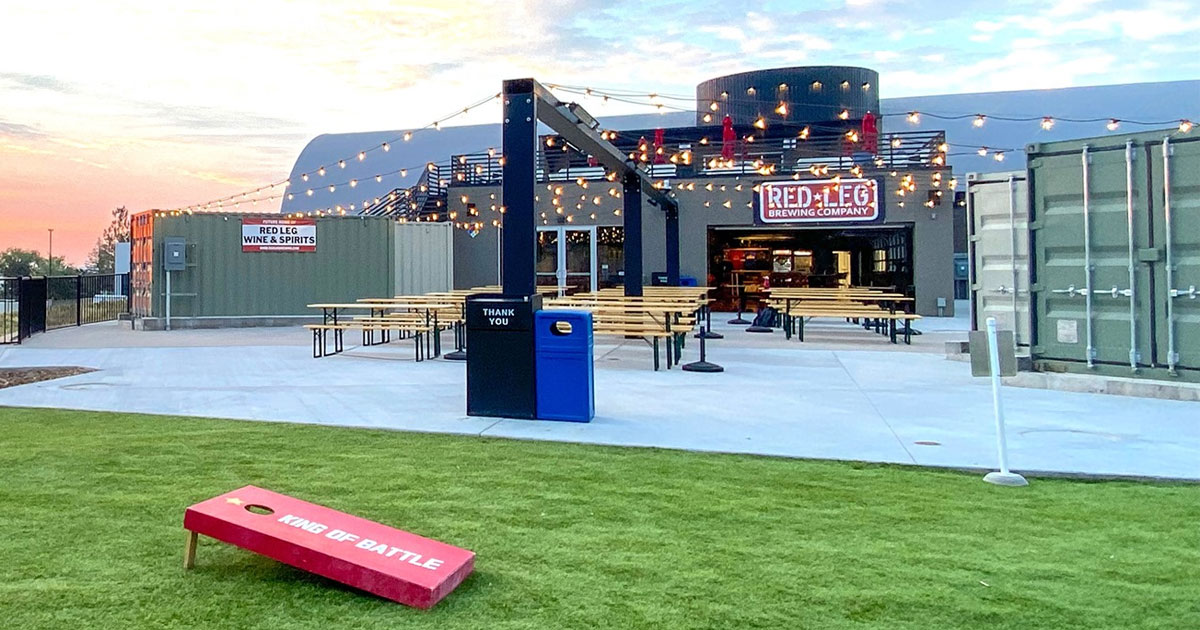
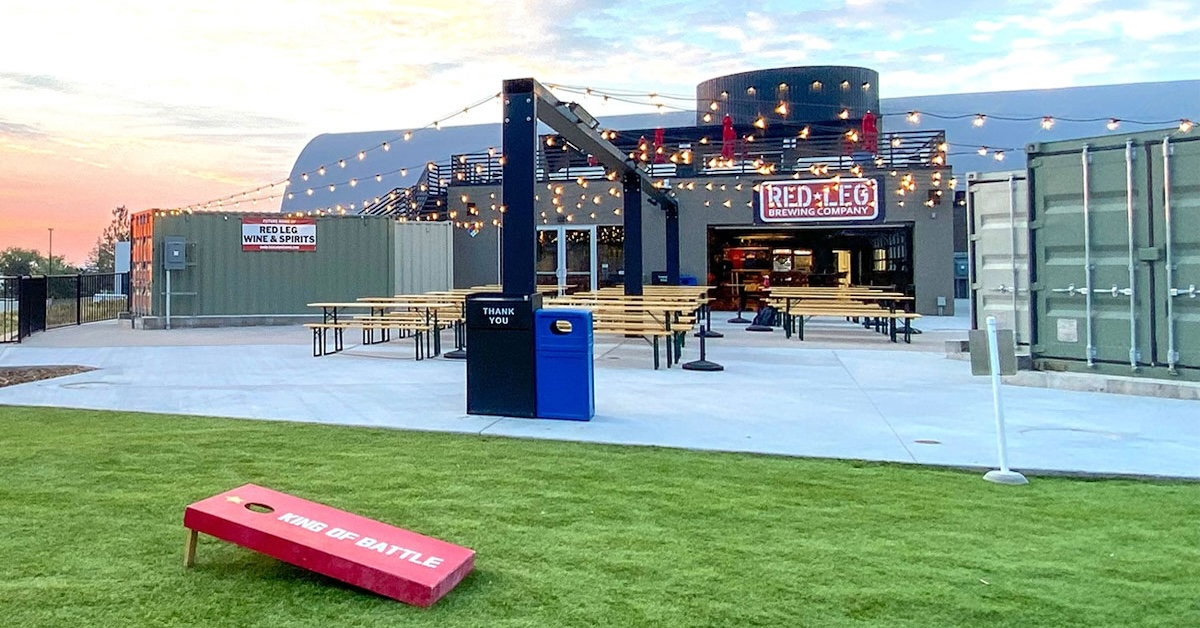
resize images home intro

diff --git a/styles.css b/styles.css
@@ -83,7 +83,10 @@ main {
     width: 40px;
     height: 40px;
     cursor: pointer;
-    margin-right: 10px;
+}
+
+#cart-icon {
+    margin: 0;
 }
 
 .logo img {
@@ -137,11 +140,12 @@ main {
 .home-intro {
     position: relative;
     overflow: hidden;
+    height: 100%;
 }
 
 .home-intro img {
     width: 100%;
-    height: 400px; /* Set a fixed height for all images */
+    height: 100%;
     object-fit: cover;
     transition: opacity 3s ease-in-out;
 }
@@ -536,9 +540,6 @@ nav a {
         opacity: 0;
     }
 
-    .home-intro img {
-        height: 100%; /* Adjust for responsiveness on small screens */
-    }
 }
 @media only screen and (min-width: 1024px) {
     main {
@@ -613,13 +614,13 @@ nav a {
     .home-intro {
         position: relative;
         overflow: hidden;
-        max-height: 600px;
+        max-height: 100%;
     }
     
     .home-intro img {
-        max-width: 100%;
-        height: 600px;
-        object-fit: cover;
+        width: 100%;
+        height: auto;
+        object-fit: contain;
         transition: opacity 3s ease-in-out;
     }
     
